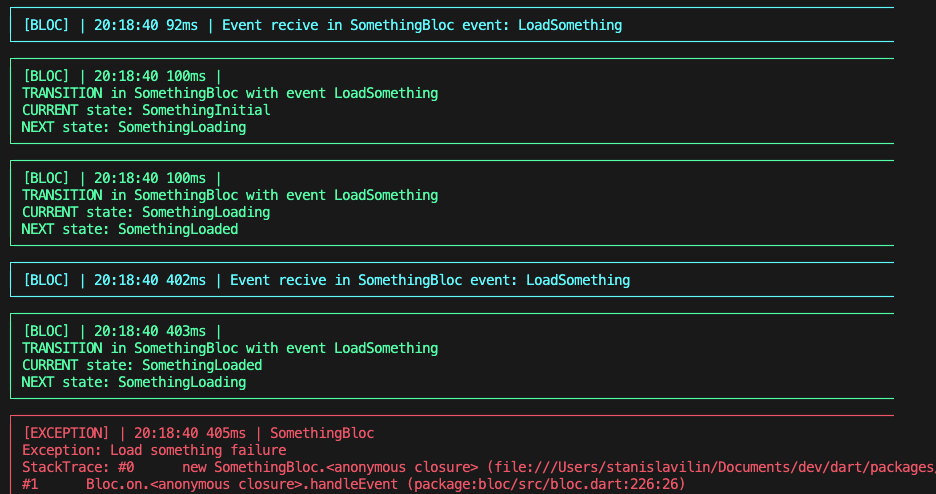
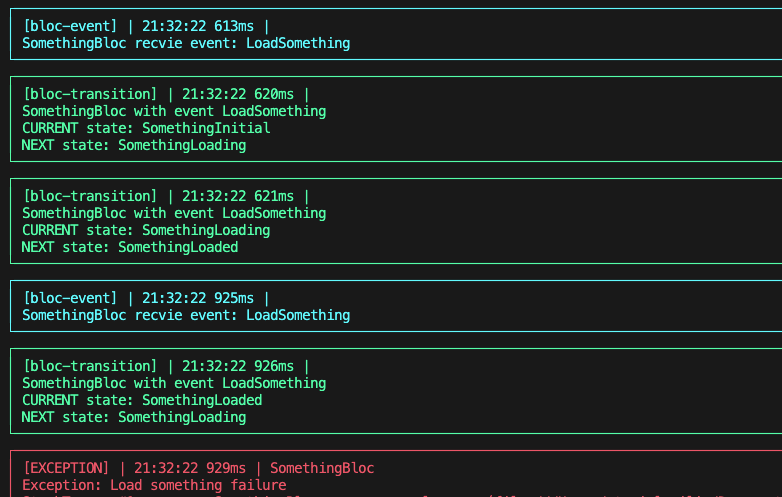
Update TalkerBlocLoggerSettings

Changed region(s): [[0.0, 0.334, 1.0, 1.0], [0.0, 0.0, 1.0, 0.3036]]

diff --git a/packages/talker_bloc_logger/lib/talker_bloc_logger_observer.dart b/packages/talker_bloc_logger/lib/talker_bloc_logger_observer.dart
@@ -23,7 +23,7 @@ class TalkerBlocObserver extends BlocObserver {
   @mustCallSuper
   void onEvent(Bloc bloc, Object? event) {
     super.onEvent(bloc, event);
-    if (!settings.enabled) {
+    if (!settings.enabled || !settings.printEvents) {
       return;
     }
     final accepted = settings.eventFilter?.call(bloc, event) ?? true;
@@ -43,7 +43,7 @@ class TalkerBlocObserver extends BlocObserver {
   @mustCallSuper
   void onTransition(Bloc bloc, Transition transition) {
     super.onTransition(bloc, transition);
-    if (!settings.enabled) {
+    if (!settings.enabled || !settings.printTransitions) {
       return;
     }
     final accepted = settings.transitionFilter?.call(bloc, transition) ?? true;
@@ -55,6 +55,21 @@ class TalkerBlocObserver extends BlocObserver {
       transition: transition,
       settings: settings,
     ));
+  }
+
+  @override
+  void onChange(BlocBase bloc, Change change) {
+    super.onChange(bloc, change);
+    if (!settings.enabled || !settings.printChanges) {
+      return;
+    }
+    _talker.logTyped(
+      BlocChangeLog(
+        bloc: bloc,
+        change: change,
+        settings: settings,
+      ),
+    );
   }
 
   @override
@@ -72,17 +87,5 @@ class TalkerBlocObserver extends BlocObserver {
   @override
   void onClose(BlocBase bloc) {
     super.onClose(bloc);
-  }
-
-  @override
-  void onChange(BlocBase bloc, Change change) {
-    super.onChange(bloc, change);
-    _talker.logTyped(
-      BlocChangeLog(
-        bloc: bloc,
-        change: change,
-        settings: settings,
-      ),
-    );
   }
 }

diff --git a/packages/talker_bloc_logger/lib/talker_bloc_logger_settings.dart b/packages/talker_bloc_logger/lib/talker_bloc_logger_settings.dart
@@ -3,6 +3,9 @@ import 'package:bloc/bloc.dart';
 class TalkerBlocLoggerSettings {
   const TalkerBlocLoggerSettings({
     this.enabled = true,
+    this.printEvents = true,
+    this.printTransitions = true,
+    this.printChanges = false,
     this.printEventFullData = true,
     this.printStateFullData = true,
     this.transitionFilter,
@@ -10,6 +13,9 @@ class TalkerBlocLoggerSettings {
   });
 
   final bool enabled;
+  final bool printEvents;
+  final bool printTransitions;
+  final bool printChanges;
   final bool printEventFullData;
   final bool printStateFullData;
   final bool Function(Bloc bloc, Transition transition)? transitionFilter;

diff --git a/packages/talker_bloc_logger/CHANGELOG.md b/packages/talker_bloc_logger/CHANGELOG.md
@@ -1,3 +1,7 @@
+## 2.1.0
+- Add logging for **onChange** method to enable **Cubit**'s logs
+- Add **printEvents**, **printTransitions**, **printChanges** fields in **TalkerBlocLoggerSettings**
+
 ## 2.0.0
 - Upgrade **talker** version to 3.0.0
 

diff --git a/packages/talker_bloc_logger/README.md b/packages/talker_bloc_logger/README.md
@@ -23,7 +23,7 @@ Follow these steps to use this package
 ### Add dependency
 ```yaml
 dependencies:
-  talker_bloc_logger: ^2.0.0
+  talker_bloc_logger: ^2.1.0
 ```
 
 ### Usage
